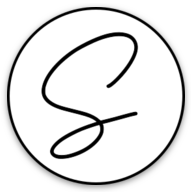
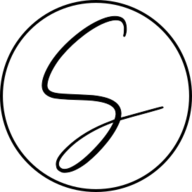
font changing

Changed region(s): [[0.0, 0.0, 1.0, 1.0]]

diff --git a/src/images/stylesheet.css b/src/images/stylesheet.css
@@ -1,7 +1,7 @@
 @font-face {
-    font-family: 'Business Signature D';
-    src: url('BusinessSignatureDRegular.woff2') format('woff2'),
-        url('BusinessSignatureDRegular.woff') format('woff');
+    font-family: 'Astagina Signature';
+    src: url('AstaginaSignature.woff2') format('woff2'),
+        url('AstaginaSignature.woff') format('woff');
     font-weight: normal;
     font-style: normal;
     font-display: swap;

diff --git a/src/css/header.css b/src/css/header.css
@@ -22,7 +22,7 @@
   font-size: 72px;
   margin-top: 1rem;
   margin-bottom: 1rem;
-  font-family: 'Business Signature D'; font-weight: normal; font-style: normal;
+  font-family: 'Astagina Signature'; font-weight: normal; font-style: normal;
 }
 
 .site-title a {
